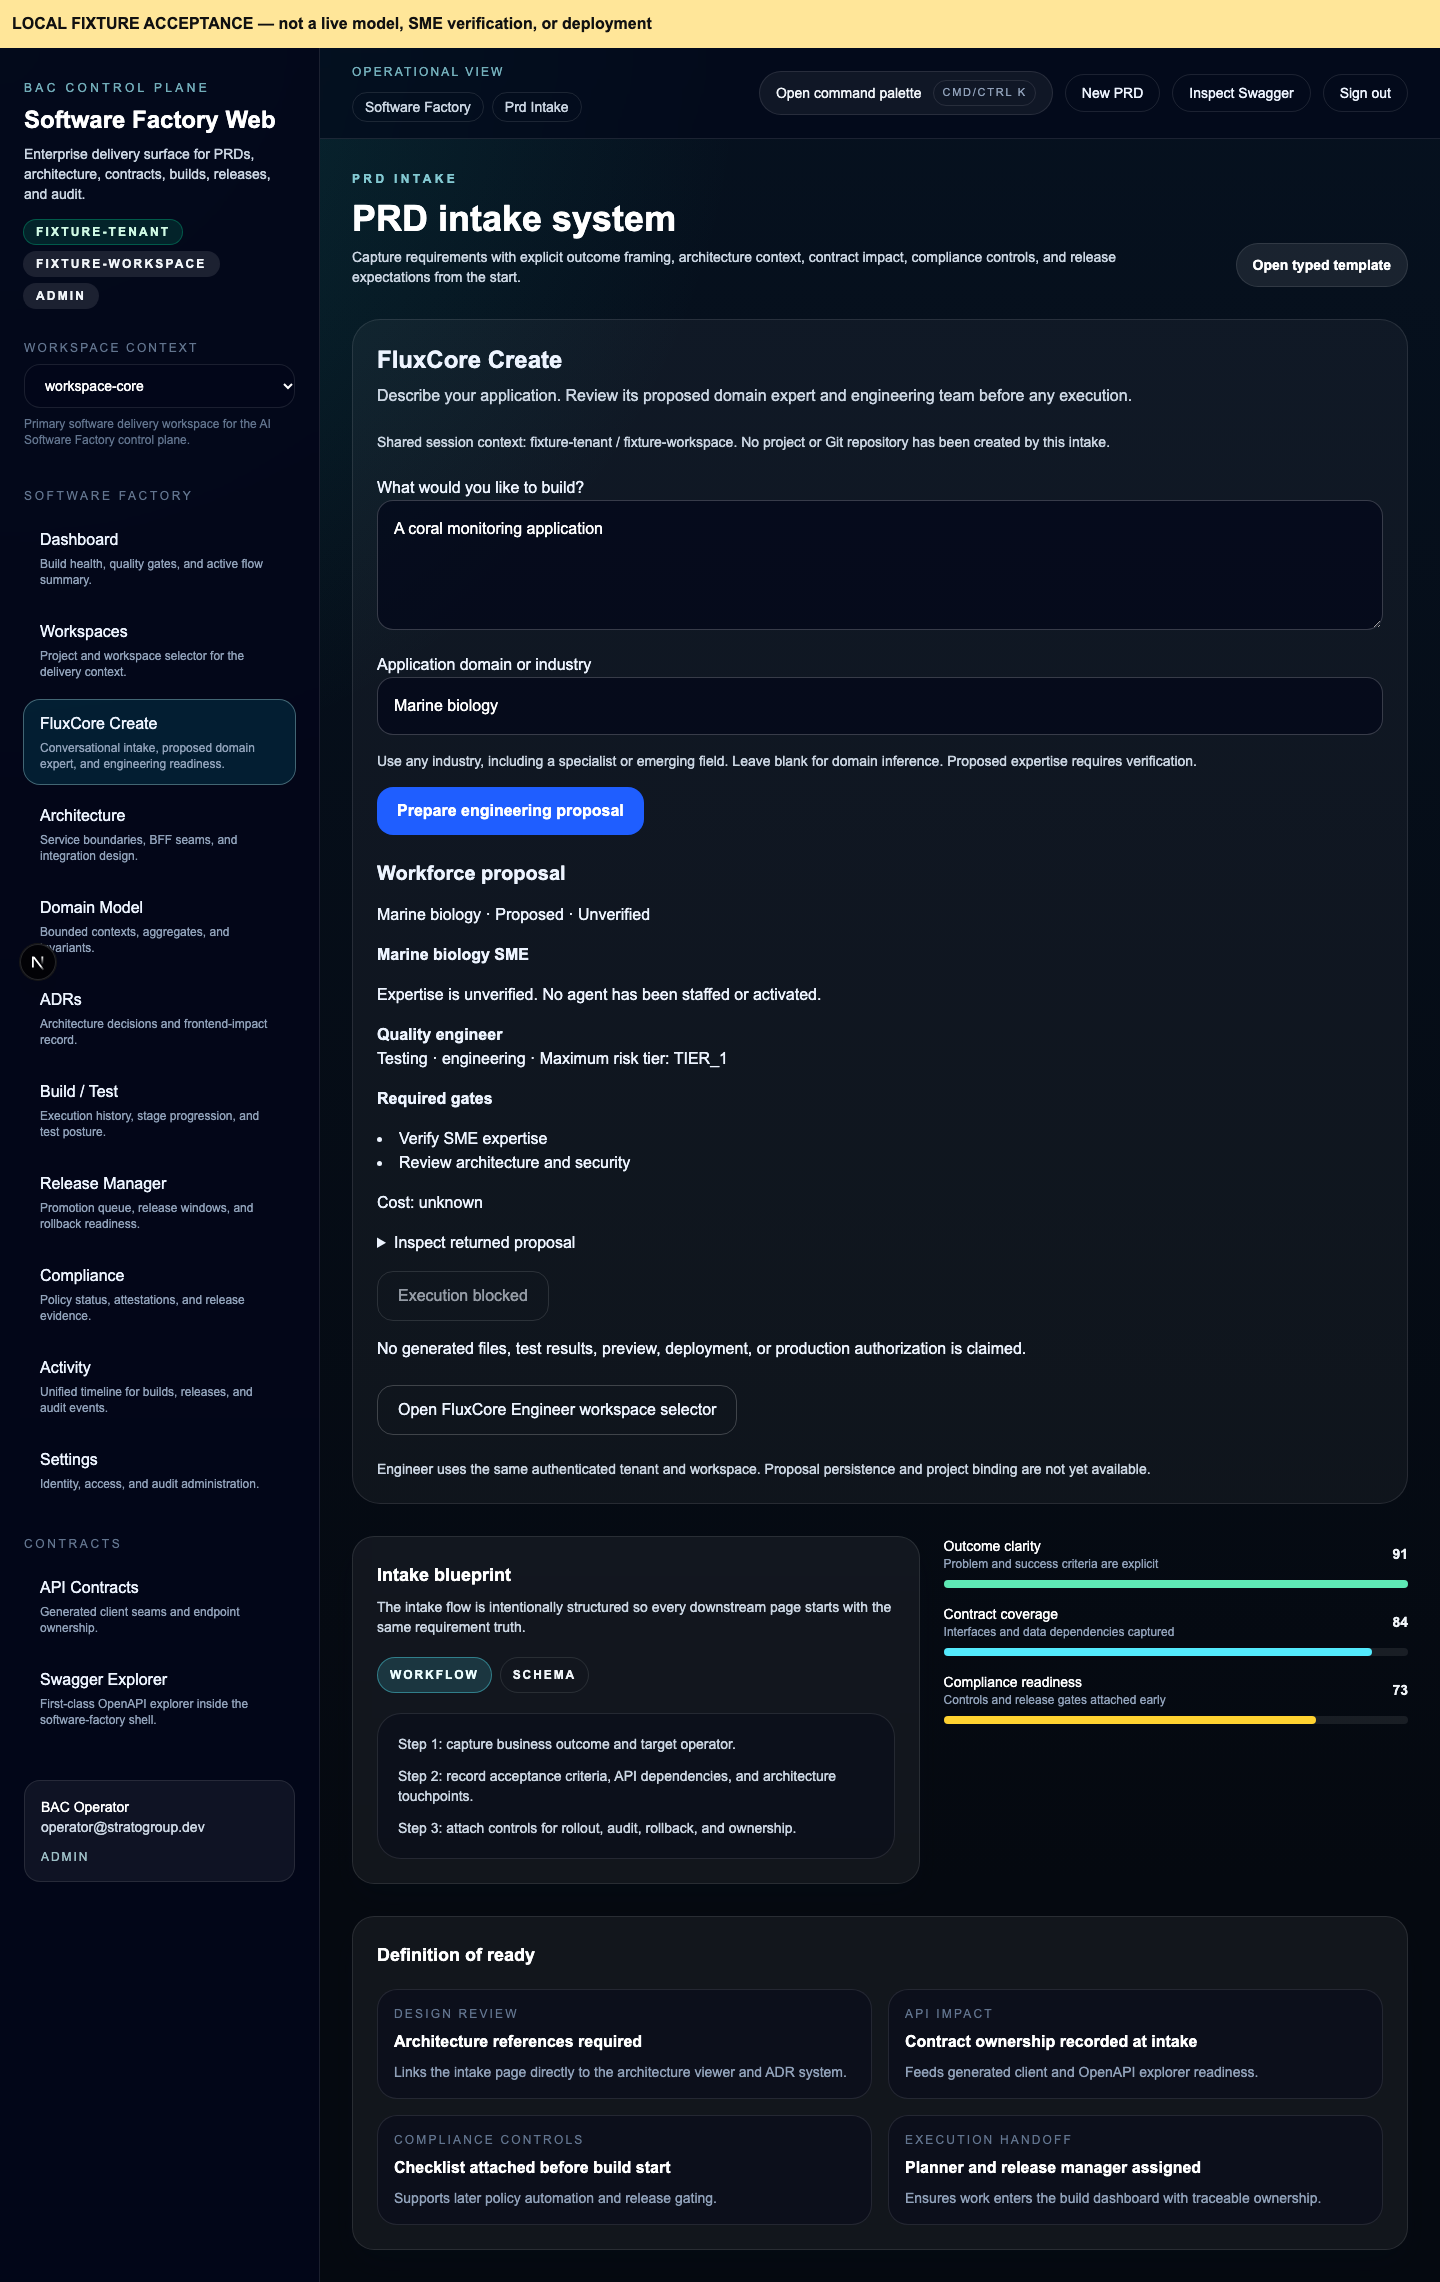
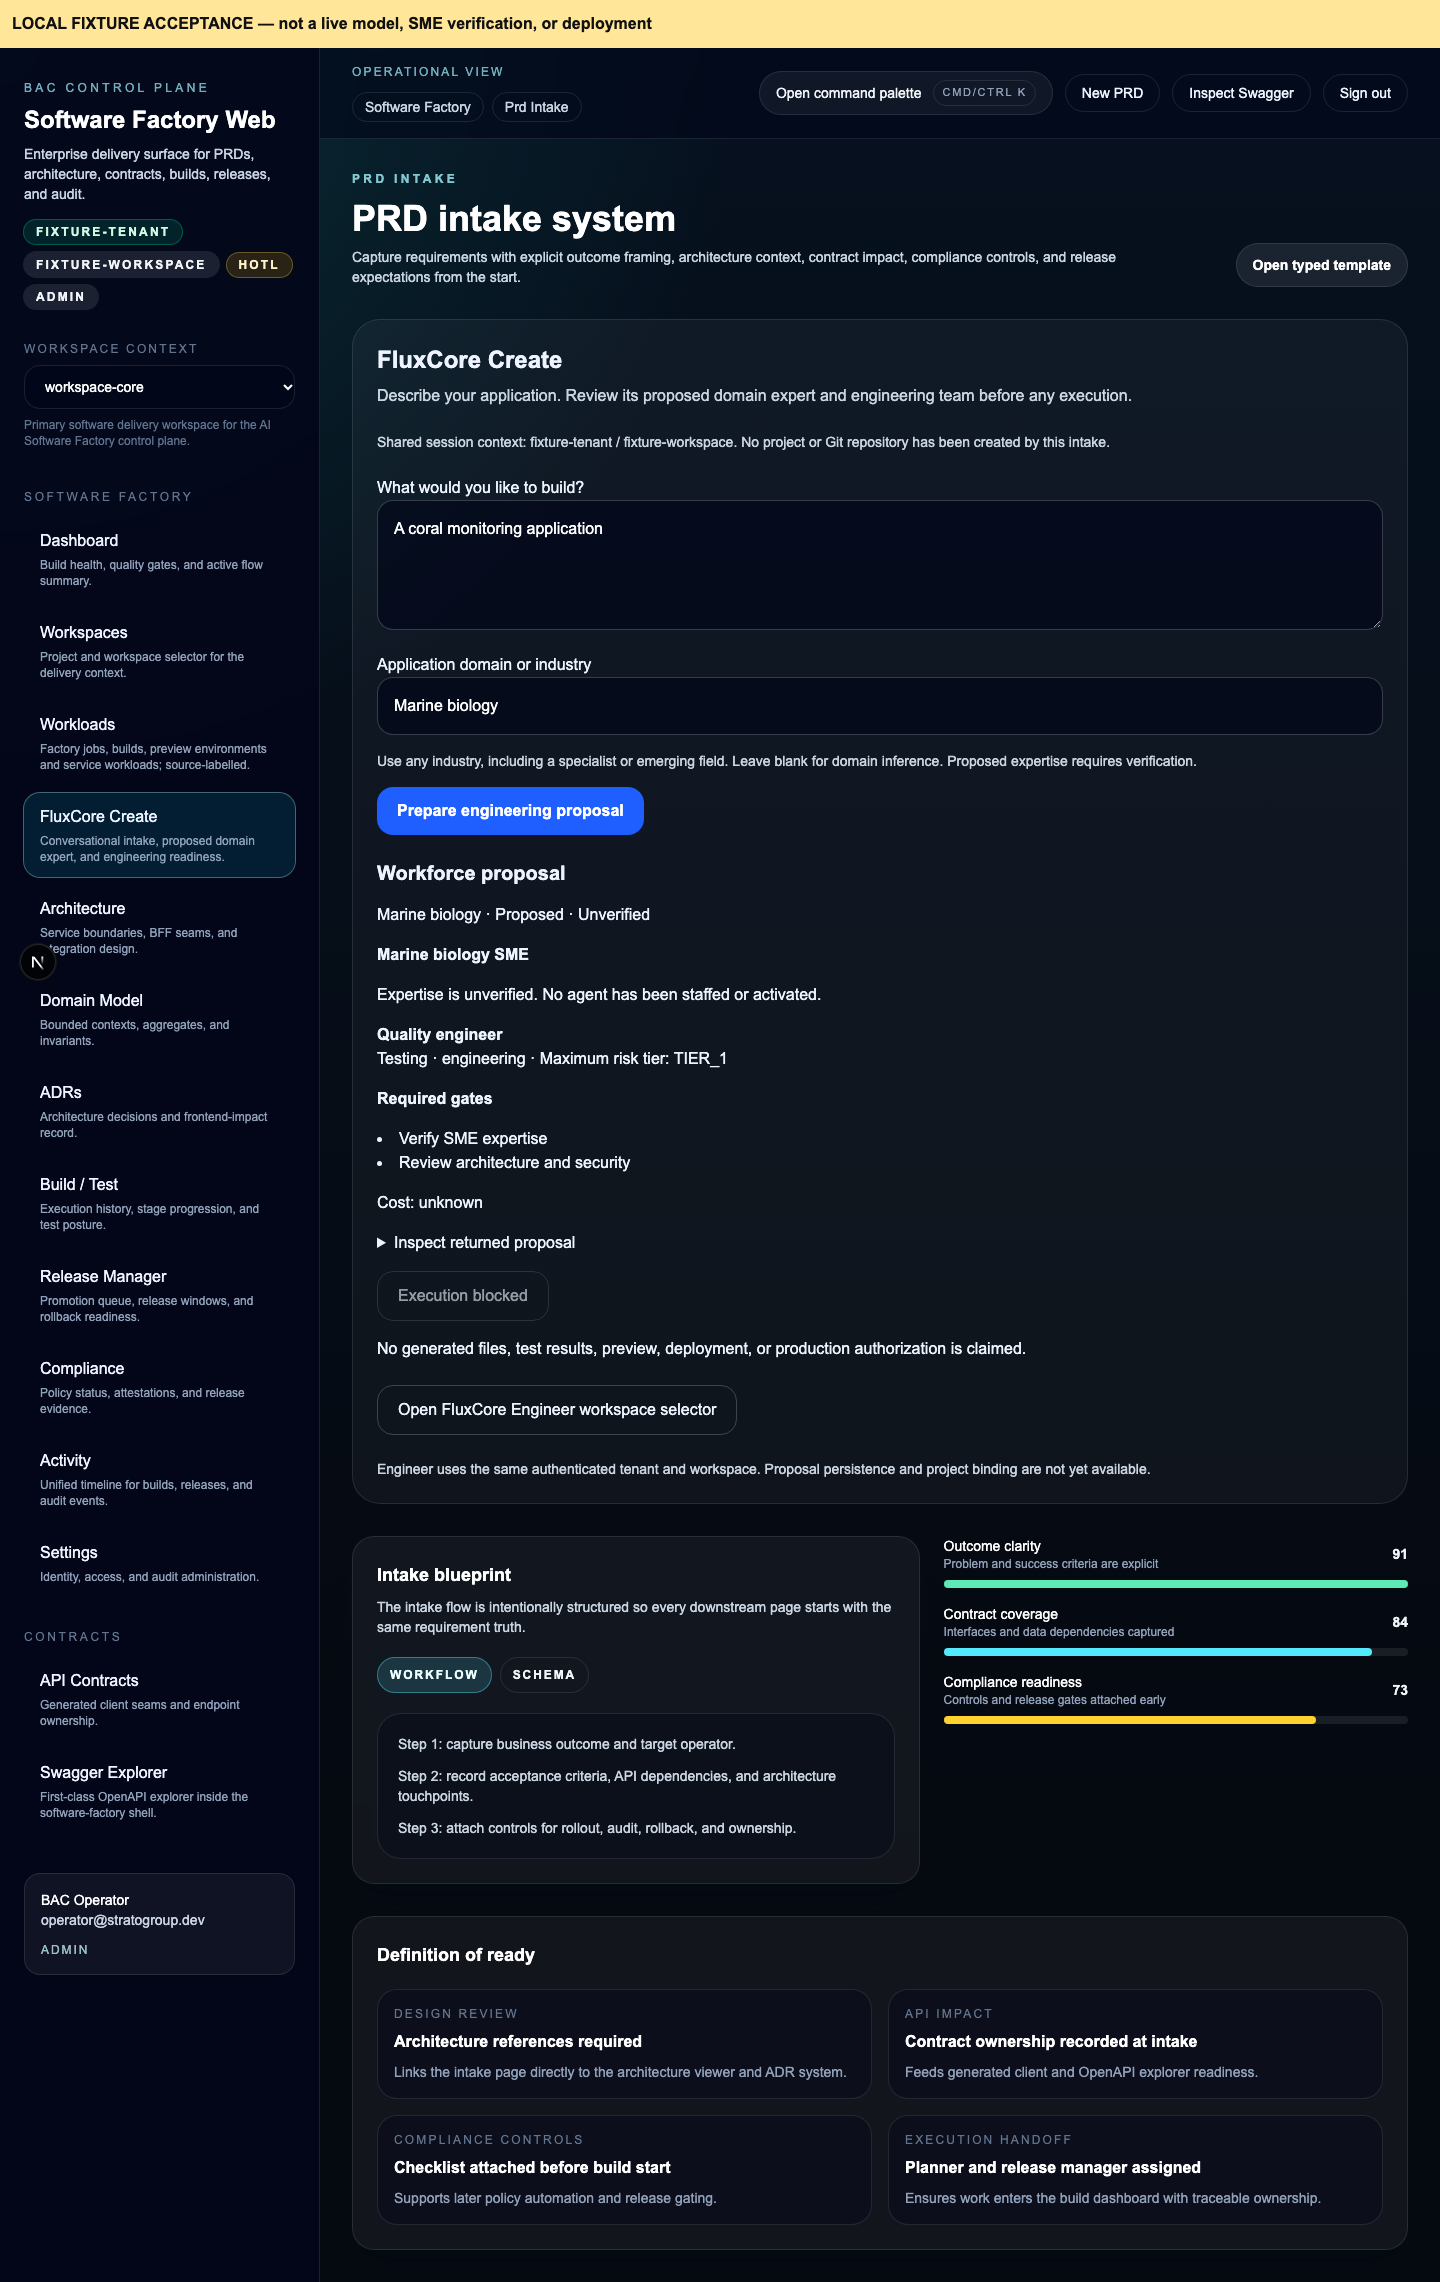
docs(create): refresh rebased intake acceptance

Changed region(s): [[0.0, 0.1556, 0.2188, 0.8712], [0.1562, 0.0933, 0.2188, 0.1245]]

diff --git a/docs/evidence/AG-05-CREATE-INTAKE-2026-10-29.md b/docs/evidence/AG-05-CREATE-INTAKE-2026-10-29.md
@@ -1,32 +1,21 @@
-# AG-05 Create intake implementation evidence
+# AG-05 FluxCore Create intake acceptance
 
-Canonical repository: AI-Frontend-Experience. Existing route `/software-factory/prd-intake`, screen ID `software-factory-prd-intake` retained; navigation labels it FluxCore Create. Existing PRD guidance retained. No new app or duplicate project/agent service.
+Repository: `Atlasfsp/AI-Frontend-Experience`
+Branch: `codex/application-sme-intake`
+Tested source: `c76259aa3440307a97b3f05f9a92bd35d79f8753`
+Rebased base: `993ed241bdca21746d41147e33544487b09d2441`
+PR: https://github.com/Atlasfsp/AI-Frontend-Experience/pull/47
 
-Inspected before implementation: repository AGENTS.md, existing PRD intake/workspace screens, app shell/session/BFF/navigation, enterprise design tokens, canonical consumed Figma frontend route map. Repository contained no PNG/JPG screenshot artifacts in inspected Design-Factory paths. Preserved existing dark surfaces, rounded cards, typography, primary token and shared shell. No screen-catalogue entries removed or claimed newly generated.
+The existing `/software-factory/prd-intake` route now includes a FluxCore Create conversational idea and optional custom-domain intake. It uses the existing authenticated SDX BFF, keeps the SME and engineering team explicitly proposed and unverified, shows unknown cost, and has no executable action. The shared shell and Signal Glass styling remain in place. Engineer navigation opens the current workspace selector with the same signed mock session. No project/repository or cross-surface proposal persistence is implemented.
 
-Implemented: conversational application idea plus optional custom industry; authenticated existing SDX BFF compile call; validated unverified proposed workforce with domain expert, engineering roles, risk tiers, required gates, returned payload inspection, unknown-cost display. No execution action available. Editing input invalidates the current proposal and rejects stale in-flight responses. Errors replace success evidence. Labels, live result region, pending state, focus styles and responsive width use existing patterns.
+## Validation on the rebased branch
 
-Shared context: signed session tenant/workspace shown; Engineer link opens the existing workspace selector using the same session. Project persistence, repository binding and cross-surface proposal persistence are **not implemented** and explicitly disclosed. No generated files, staffed agents, passed application tests, preview or deployment is claimed.
+- `pnpm --filter @bac/software-factory-web typecheck` — exit 0.
+- Focused Vitest — 4 files, 10 tests passed. Covers permission denial, custom industry, malformed/failing responses, unknown cost, untrusted strings, and optional tenant expiry/config defaults.
+- Changed-file ESLint — exit 0. ESLint emitted the repository `no-html-link-for-pages` warning because this app uses the App Router.
+- `node scripts/acceptance/create-fixture.mjs` — passed in a local Next dev server on port 3400. The browser used a local fixture only. Anonymous compile was denied with 403 and made zero fixture requests. Authenticated forwarding preserved tenant/workspace and authorization context; proposal remained unverified and execution blocked; editing cleared the result; Engineer navigation reached `/software-factory/workspaces`.
+- Screenshots at 390px and 1440px were regenerated and inspected. `documentWidth` matched each viewport width; no horizontal overflow appeared.
 
-Validation:
-- `pnpm install --frozen-lockfile`: failed because existing lockfile lacks `@bac/auth` in api-clients importer. `pnpm install --no-frozen-lockfile` succeeded; no tracked lockfile delta resulted.
-- `pnpm exec vitest run apps/software-factory-web/components/create-intake.test.tsx`: 3 passed. Initial run exposed missing React import in the test runtime; corrected before passing rerun.
-- `pnpm exec eslint apps/software-factory-web/components/create-intake.tsx apps/software-factory-web/components/create-intake.test.tsx 'apps/software-factory-web/app/(app)/software-factory/prd-intake/page.tsx'`: exit 0, existing Next pages-directory warning.
-- `pnpm --filter @bac/software-factory-web typecheck`: fails on existing feature-flags `boolean | GovernanceMode` assignment, next.config `assetPrefix` exact optional property, and config tenant-overrides `expiresAt` exact optional property. No changed-file type errors after corrections.
+The acceptance record is `create-fixture/acceptance.json`; screenshots are `create-fixture/create-390.png` and `create-fixture/create-1440.png`. These prove fixture-backed UI/BFF behavior only. They do not verify the live Go backend, production identity, a qualified SME, durable project state, model/provider access, agent runtime, tests of generated code, preview, deployment, or release.
 
-Limitations: UI uses a consumer-side runtime schema against backend-owned compile contract rather than hand-editing generated clients. Upstream contract publication/client generation remains required. No running backend/browser acceptance test, visual screenshot, persistent project creation, SME verification, deployment or production approval evidence. Compile endpoint now requires existing `workspace:manage` planning permission at the BFF; other mutations retain deployment permission. Backend workflow-plan capability remains independently enforced; no permission bypass added. Do not interpret this slice as complete AG-05 or AG-00–AG-08 closure.
-
-Next verification: publish backend OpenAPI additive contract, regenerate authoritative clients, wire existing project aggregate/persistence, execute live signed-session acceptance tests and responsive/accessibility visual review. Preserve HOTL gates and independently governed integration/provider/model/production approvals.
-
-
-## Closure verification follow-up
-
-Baseline type errors corrected separately in commit `46046c8`: admin registry restricts keys to boolean flags, absent CDN prefix and absent override expiry omit optional properties, and Next config imports the pure CDN module rather than a React-bearing barrel. `pnpm --filter @bac/software-factory-web typecheck` now exits 0.
-
-Focused Vitest suite: `pnpm exec vitest run apps/software-factory-web/lib/sdx-permissions.test.ts apps/software-factory-web/components/create-intake.test.tsx packages/config/src/index.test.ts packages/config/src/tenant-overrides.test.ts` — 4 files, **10 tests passed**. Covers anonymous/viewer denial, exact compile planning permission versus deployment mutations, custom industry, failed/malformed response, null/missing cost, escaped untrusted expert/domain strings, optional tenant expiry and config defaults.
-
-The supplied Antigravity reference path ending `fc_001_executive_command_center/screen.png` was inspected with `file` and the image tool: it is 28-byte ASCII text, not a valid image, and the image tool rejected it. Existing source design tokens and canonical layout remain the visual authority actually inspected. No successful visual comparison against that invalid file is claimed.
-
-Browser acceptance: `node scripts/acceptance/create-fixture.mjs` passed using local Next development app on port 3400, installed Chromium headless shell, existing signed mock-login session, real authenticated BFF, and explicitly labelled local HTTP fixture on 8080. Anonymous compile returned 403 with zero upstream requests. Authenticated forwarding preserved fixture tenant/workspace and authorization header. Custom-domain proposal displayed blocked execution and unknown cost; editing invalidated results; Engineer link reached existing workspace selector. Saved `create-fixture/acceptance.json`, `create-1440.png`, `create-390.png`; both document widths equal viewport widths. These are fixture UI acceptance evidence, not live backend/model/SME/identity/deployment evidence. Cold first attempt timed out during Next compilation; increased local test timeout and reran successfully.
-
-Visual QA exposed missing Tailwind scan coverage for shared `packages/ui/src`. Added explicit `@source` to existing app CSS so canonical shell/sidebar responsive classes are emitted; no token or component redesign. Screenshot script resets scroll and waits for resize transitions before capture. Existing PRD readiness values remain static blueprint/demo content, not test or compliance measurements for the submitted application.
+The PR was rebased onto the current `main` after GitHub reported a conflict. Conflict resolution kept the latest exported `@bac/config/cdn` import, the boolean-only feature-flag type fix, and the exact-optional-property-safe tenant override assignment. The source tree is clean after the rebase; generated TypeScript build metadata was discarded.
